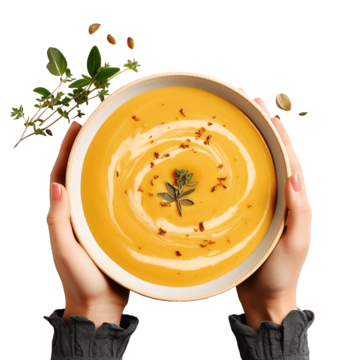
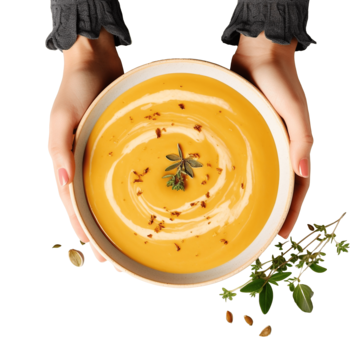
created a custom hook for resonponsiveness among different size screens

diff --git a/src/pages/Home.tsx b/src/pages/Home.tsx
@@ -1,11 +1,26 @@
 import React, { useEffect } from "react";
 import Navbar from "../components/navbar";
 import Typed from "typed.js";
-import img from "../assets/foodplate.png";
+import { useResponsive } from "./useResponsive";
+import img1 from "../assets/foodplate.png";
+import img2 from "../assets/handholdingplate2.png";
 
 const Home = () => {
-  useEffect(() => {
+  const breakpoints = [480, 768, 1600]; // Example breakpoints: small, medium, large screens
+    const breakpointIndex = useResponsive(breakpoints);
+  
+  //   useEffect(() => {
+  //   var typedSkill = new Typed(".typedSkill", {
+  //     strings: ["Millions of Recipes on your Fingertips"],
+  //     typeSpeed: 70,
+  //   });
 
+  //   return () => {
+  //     typedSkill.destroy();
+  //   };
+  // }, []);
+
+  useEffect(() => {
     var typedSkill = new Typed(".typedSkill", {
       strings: ["Millions of Recipes on your Fingertips"],
       typeSpeed: 70,
@@ -16,23 +31,92 @@ const Home = () => {
     };
   }, []);
 
+
   return (
-<div className="flex flex-wrap min-h-screen">
+    <>
+    {breakpointIndex === 0 && 
+      <div className="flex flex-wrap min-h-screen">
+        {/* Image Section */}
+        <div className="w-full bg-gray-700 flex flex-col items-center">
+          <img
+            src={img2}
+            alt="hospital"
+            className="w-full"
+          />
+          <h1
+            className="text-5xl text-white mb-3 text-center"
+            style={{ fontFamily: '"Matemasie", cursive' }}
+          >
+            Welcome to your Cook Book!
+          </h1>
+          <div className="text-2xl text-white text-center">
+            <span
+              className="typedSkill text-xl"
+              style={{ fontFamily: '"Cedarville Cursive", cursive' }}
+            ></span>
+            </div>
+        </div>
 
-{/* Image Section */}
-<div className="w-full sm:w-1/2 bg-gray-700 flex items-center justify-center">
-  <img src={img} alt="hospital" className="ml-3 w-1/1 sm: object-cover" />
-</div>
+      </div>
+    }
+    {breakpointIndex === 1 && 
+      <div className="flex flex-wrap min-h-screen">
+      {/* Image Section */}
+      <div className="w-full sm:w-1/2 bg-gray-700 flex items-center justify-center">
+        <img
+          src={img1}
+          alt="hospital"
+          className="ml-3 w-1/1 sm: object-cover"
+        />
+      </div>
 
-{/* Text Section */}
-<div className="w-full sm:w-1/2 flex flex-col justify-center items-center bg-gray-700">
-  <h1 className="text-5xl text-white mb-3 text-center" style={{ fontFamily: '"Matemasie", cursive' }}>Welcome to your Cook Book!</h1>
-  <div className="text-2xl text-white text-center">
-    <span className="typedSkill text-xl" style={{ fontFamily: '"Cedarville Cursive", cursive' }}></span>
-  </div>
-</div>
+      {/* Text Section */}
+      <div className="w-full sm:w-1/2 flex flex-col justify-center items-center bg-gray-700">
+        <h1
+          className="text-5xl text-white mb-3 text-center"
+          style={{ fontFamily: '"Matemasie", cursive' }}
+        >
+          Welcome to your Cook Book!
+        </h1>
+        <div className="text-2xl text-white text-center">
+          <span
+            className="typedSkill text-xl"
+            style={{ fontFamily: '"Cedarville Cursive", cursive' }}
+          ></span>
+        </div>
+      </div>
+    </div>
+    }
+    {breakpointIndex === 2 && 
+      <div className="flex flex-wrap min-h-screen">
+      {/* Image Section */}
+      <div className="w-full sm:w-1/2 bg-gray-700 flex items-center justify-center">
+        <img
+          src={img1}
+          alt="hospital"
+          className="ml-3 w-1/1 sm: object-cover"
+        />
+      </div>
 
-</div>
+      {/* Text Section */}
+      <div className="w-full sm:w-1/2 flex flex-col justify-center items-center bg-gray-700">
+        <h1
+          className="text-5xl text-white mb-3 text-center"
+          style={{ fontFamily: '"Matemasie", cursive' }}
+        >
+          Welcome to your Cook Book!
+        </h1>
+        <div className="text-2xl text-white text-center">
+            <span
+              className="typedSkill text-xl"
+              style={{ fontFamily: '"Cedarville Cursive", cursive' }}
+            ></span>
+            </div>
+      </div>
+    </div>
+    }
+
+    </>
   );
 };
 

diff --git a/src/pages/useResponsive.tsx b/src/pages/useResponsive.tsx
@@ -1,0 +1,20 @@
+import { useEffect, useState } from "react";
+
+export const useResponsive = (breakpoints: number[]): number => {
+    const [index, setIndex] = useState<number>(0);
+
+    useEffect(() => {
+        const updateIndex = () => {
+            const width = window.innerWidth;
+            const newIndex = breakpoints.findIndex((bp) => width <= bp);
+            setIndex(newIndex === -1 ? breakpoints.length : newIndex);
+        };
+
+        updateIndex();
+        window.addEventListener('resize', updateIndex);
+        return () => window.removeEventListener('resize', updateIndex);
+        
+    }, [breakpoints]);
+
+    return index;
+};
